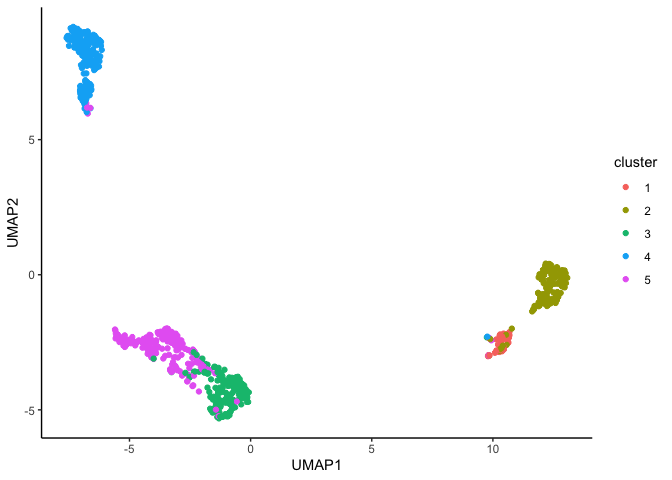
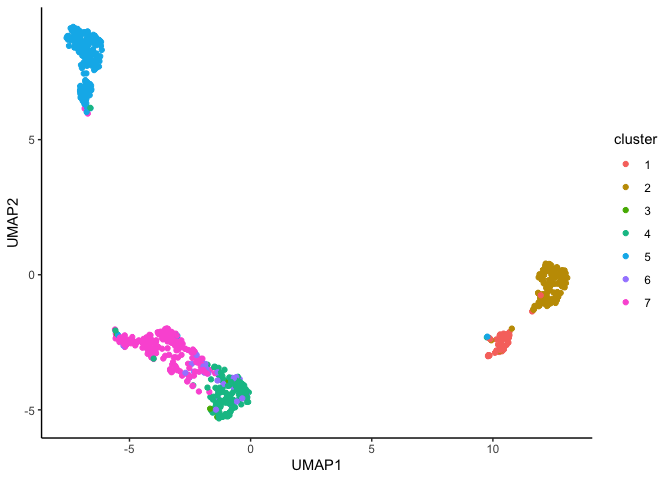
updated .rmd

diff --git a/README.md b/README.md
@@ -26,7 +26,7 @@ library(devtools)
 install_github("SydneyBioX/CLUEY")
 ```
 
-## Generating reference
+## Generating knowledge base
 
 You can generate your own knowledge base using the
 `generateKnowledgeBase` function like below:
@@ -61,13 +61,18 @@ data(exampleData)
 # Run CLUEY
 # If your logcounts matrix is in dgCMatrix format, then you'll need to convert it to a matrix using `as.matrix()`
 clustering_results <- runCLUEY(exprsMatRNA=as.matrix(logcounts(exampleData)), knowledgeBase=mcaFACS, kLimit=10, encodingDim1=10, encodingDim2=5)
-#> 25/25 - 0s - 104ms/epoch - 4ms/step
-#> 10/10 - 0s - 89ms/epoch - 9ms/step
+#> 25/25 - 0s - 115ms/epoch - 5ms/step
+#> 13/13 - 0s - 93ms/epoch - 7ms/step
+#> 4/4 - 0s - 80ms/epoch - 20ms/step
+#> 9/9 - 0s - 87ms/epoch - 10ms/step
+#> 25/25 - 0s - 89ms/epoch - 4ms/step
 #> 12/12 - 0s - 102ms/epoch - 9ms/step
-#> 13/13 - 0s - 100ms/epoch - 8ms/step
-#> 17/17 - 0s - 84ms/epoch - 5ms/step
-#> 4/4 - 0s - 88ms/epoch - 22ms/step
-#> 14/14 - 0s - 98ms/epoch - 7ms/step
+#> 10/10 - 0s - 103ms/epoch - 10ms/step
+#> 10/10 - 0s - 91ms/epoch - 9ms/step
+#> 9/9 - 0s - 98ms/epoch - 11ms/step
+#> 2/2 - 0s - 89ms/epoch - 44ms/step
+#> 14/14 - 0s - 124ms/epoch - 9ms/step
+#> 13/13 - 0s - 115ms/epoch - 9ms/step
 ```
 
 ## Viewing results
@@ -80,7 +85,7 @@ set.seed(3435)
 
 # View the optimal number of clusters predicted by CLUEY
 clustering_results$optimal_K
-#> [1] 5
+#> [1] 7
 
 # We can store the results in the metadata of our SingleCellExperiment object. 
 colData(exampleData) <- cbind(colData(exampleData), clustering_results$predictions)
